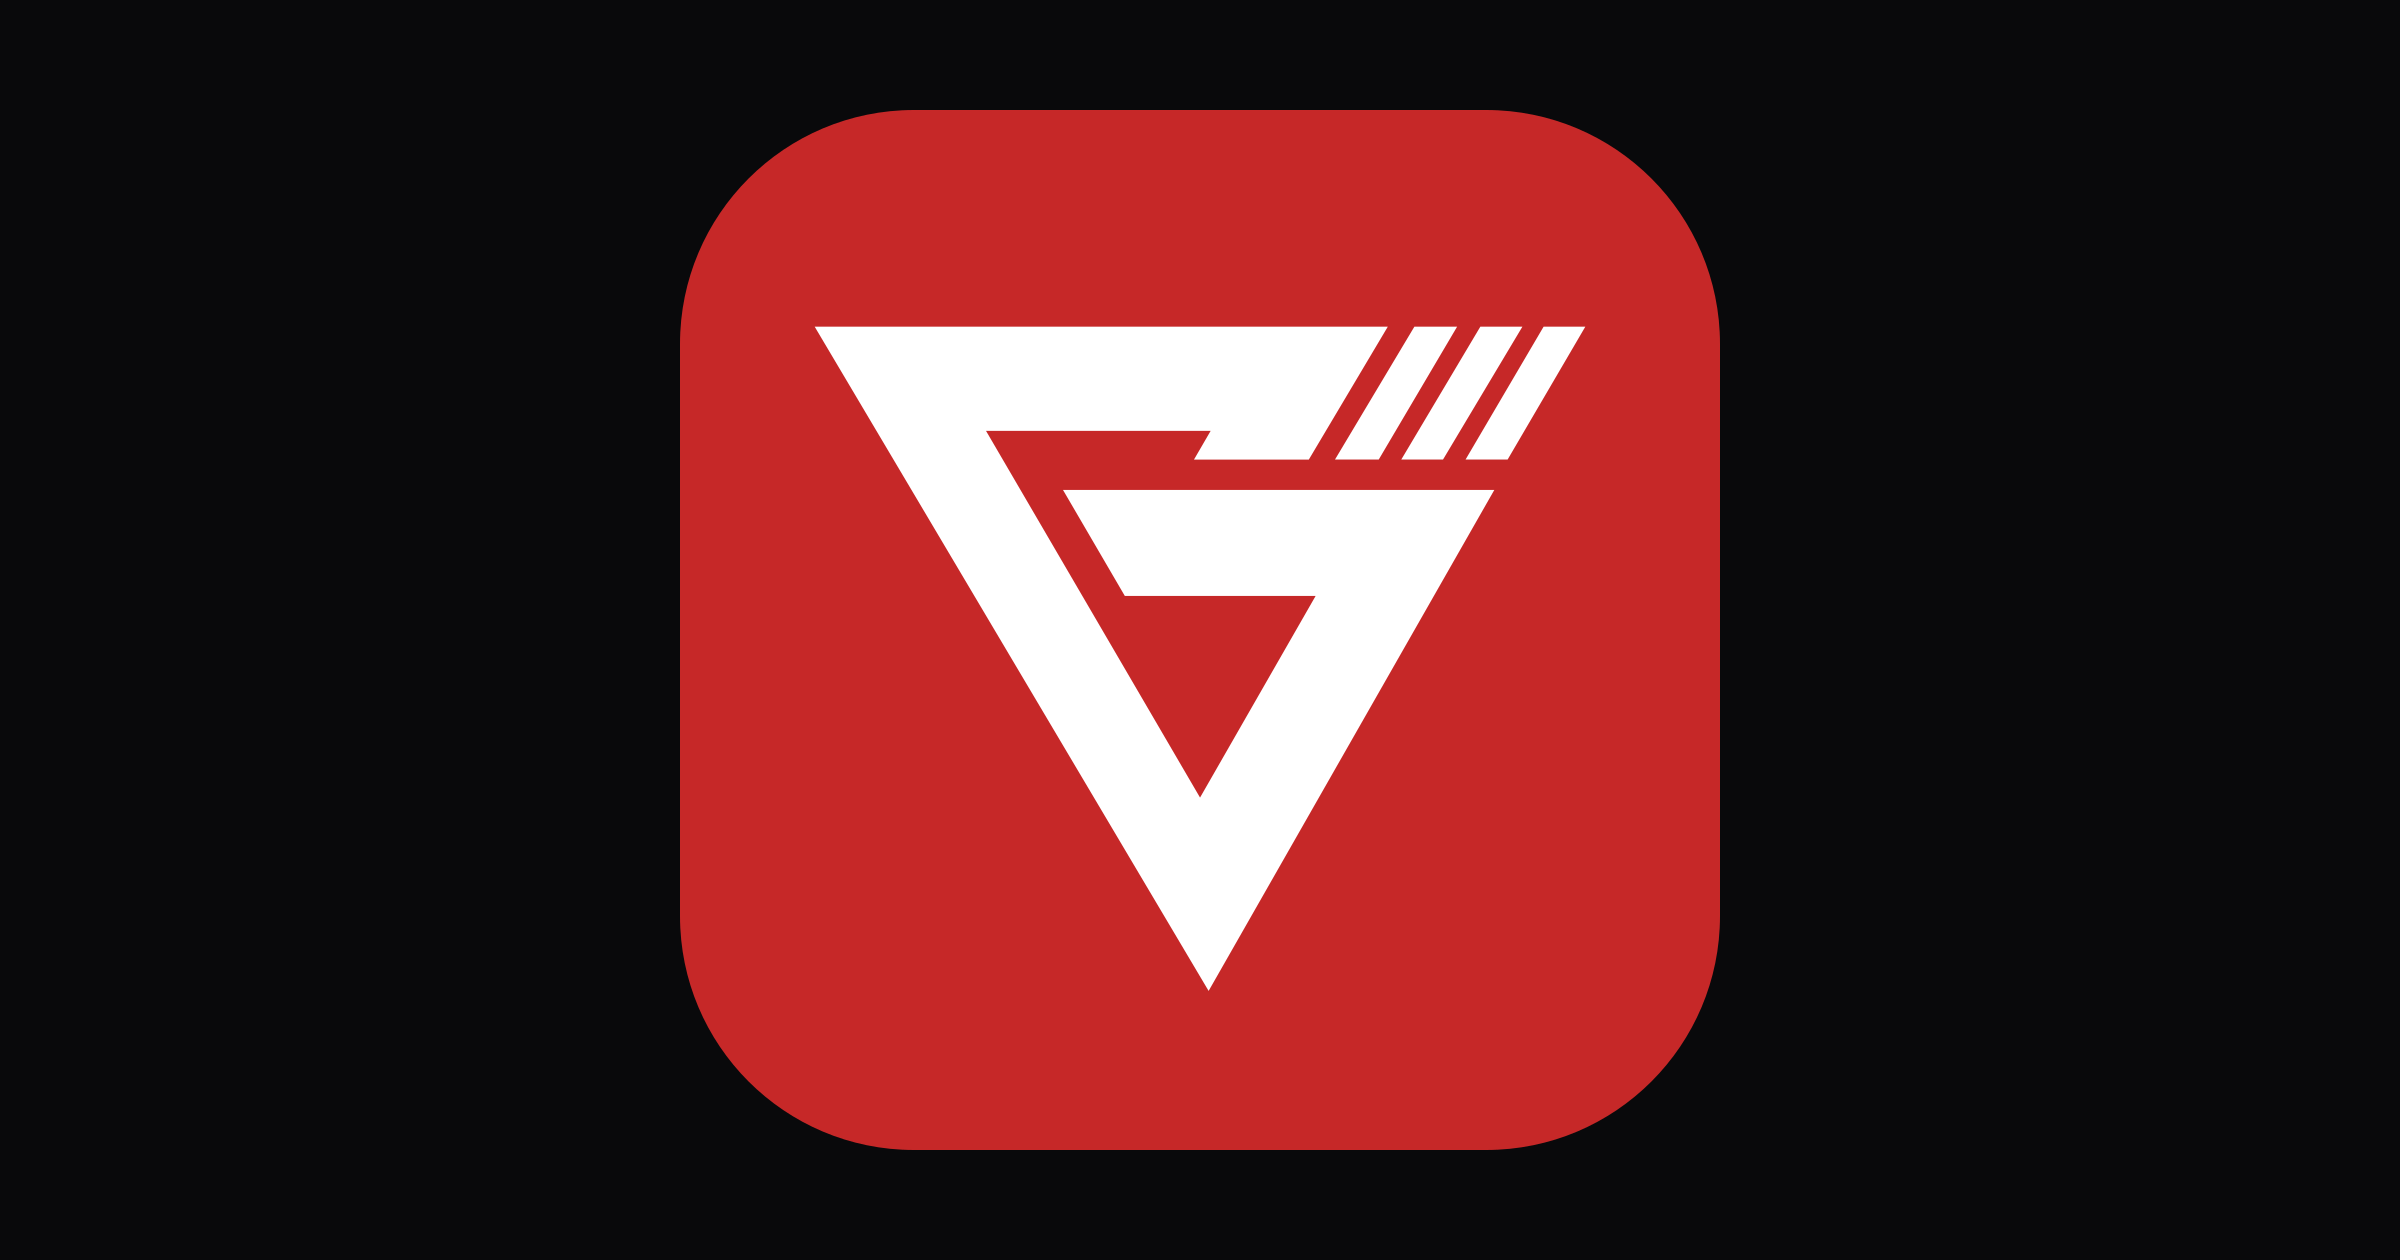
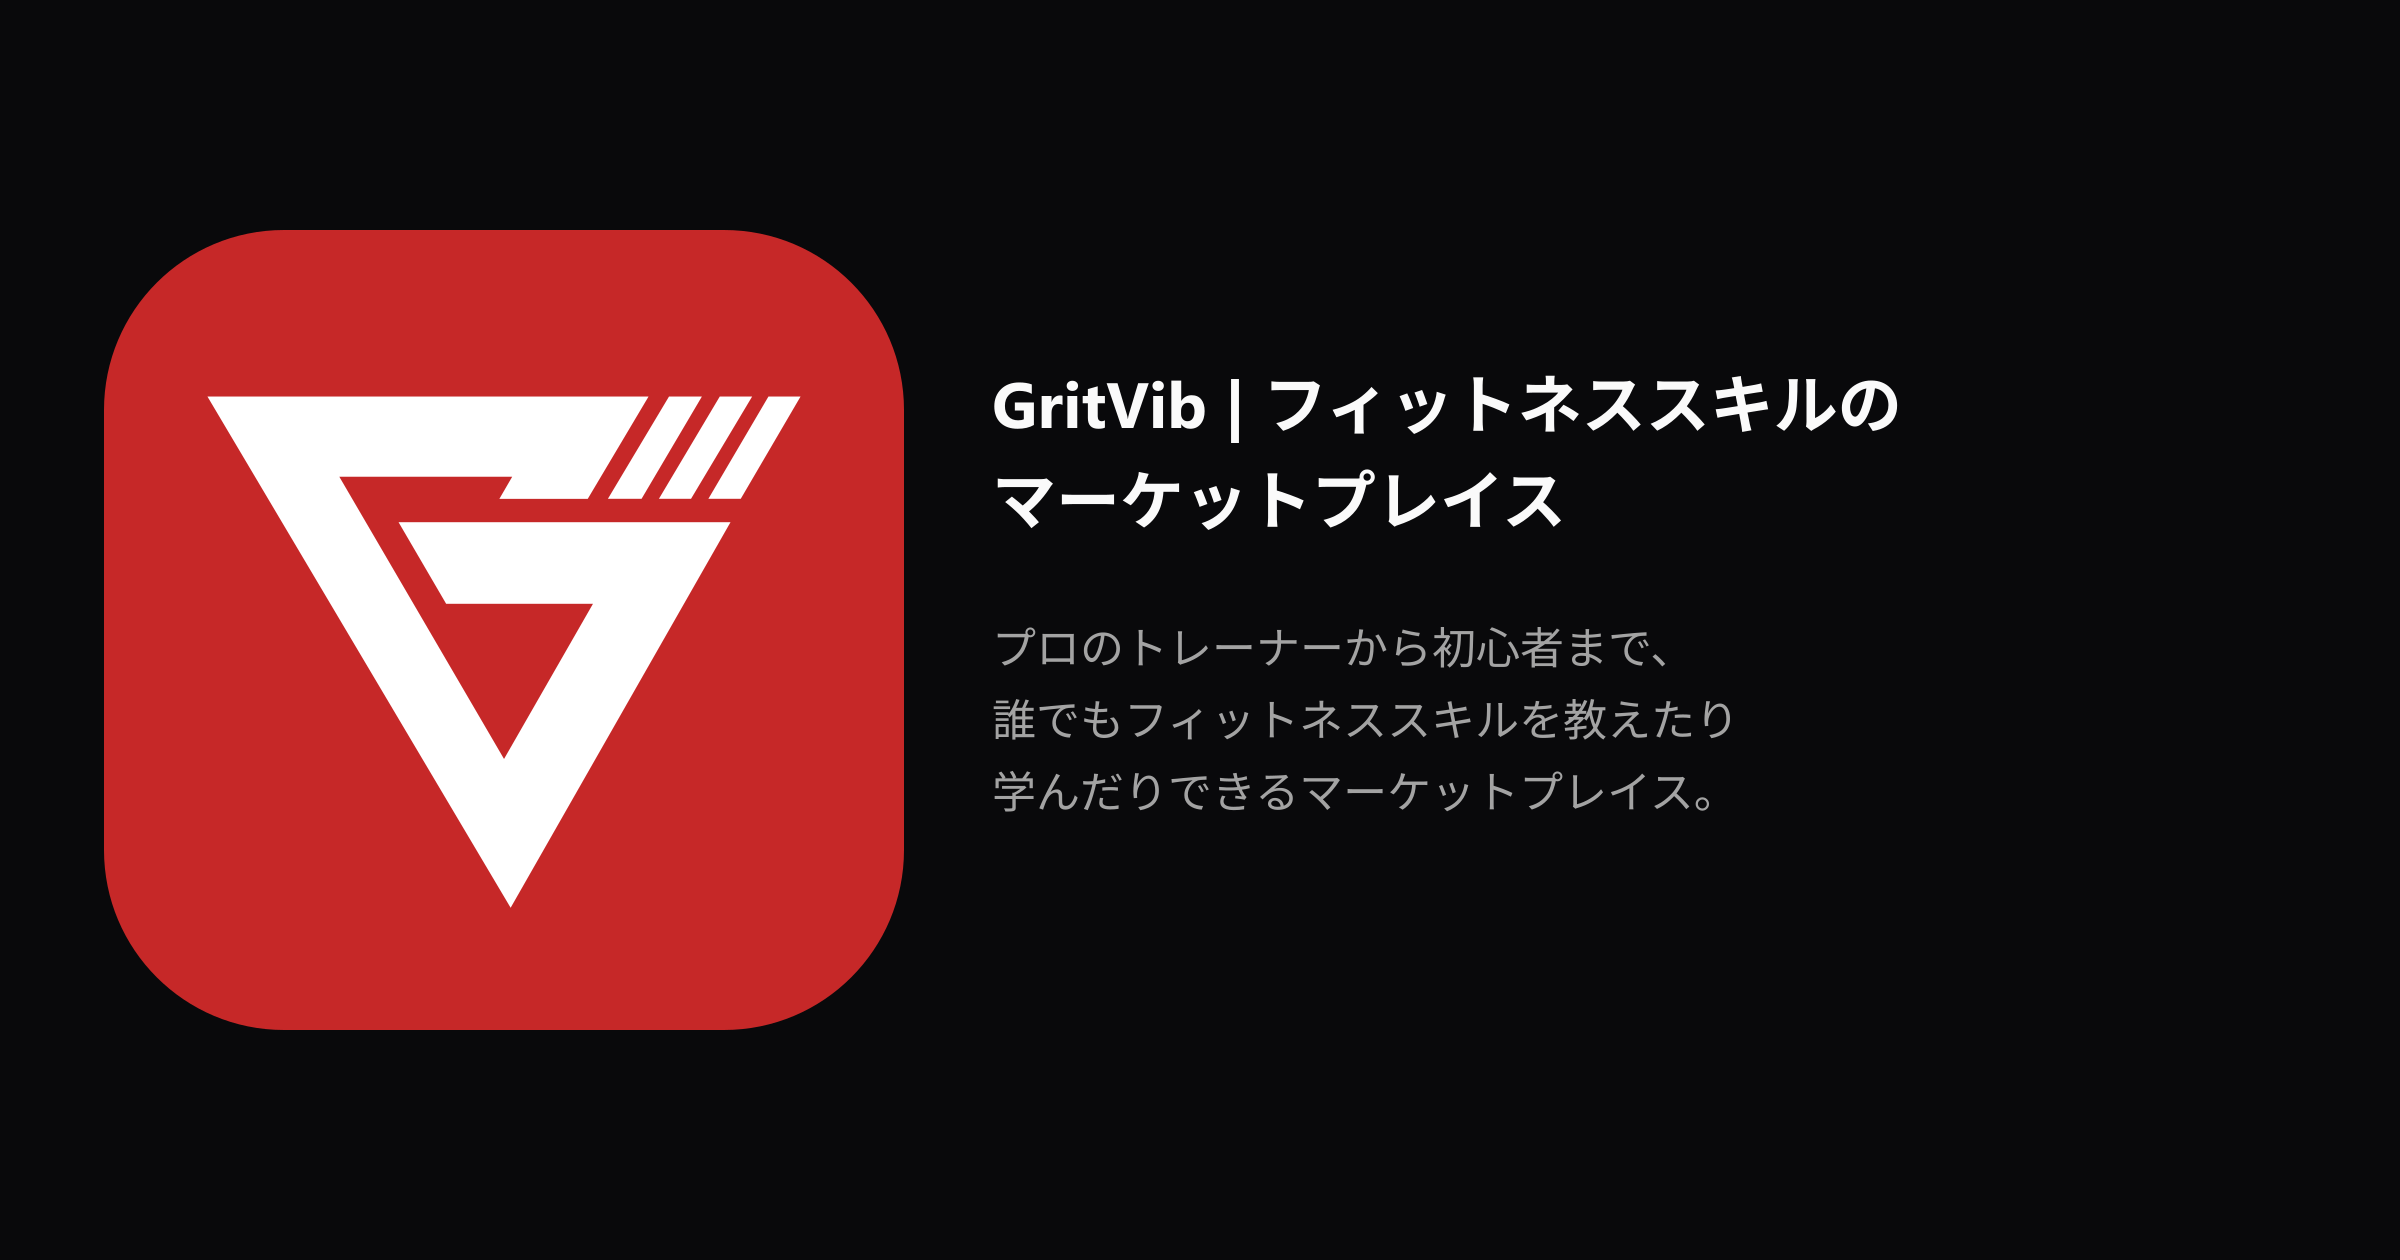
OGP

diff --git a/src/lib/site-seo.ts b/src/lib/site-seo.ts
@@ -27,7 +27,10 @@ export const LAYOUT_TITLE_DEFAULT = "GritVib | 経歴不問のフィットネス
 export const LAYOUT_DESCRIPTION =
   "経歴や肩書にとらわれず、フィットネスの知識や指導スキルをシェア・取引できるマーケットプレイス。パーソナルトレーニングやオンラインレッスンなど、相談から始められる透明な取引で運動をもっと身近に。"
 
-/** トップページ（https://gritvib.com/）専用の検索・OG テキスト */
+/**
+ * トップページ（https://gritvib.com/）専用の検索・OG テキスト。
+ * トップ用 OG 画像（public/og-home.png）の折り返し文言は scripts/generate-brand-assets.mjs の OG_HOME_* と揃えること。
+ */
 export const HOME_TITLE_ABSOLUTE = "GritVib | フィットネススキルのマーケットプレイス"
 
 export const HOME_DESCRIPTION =
